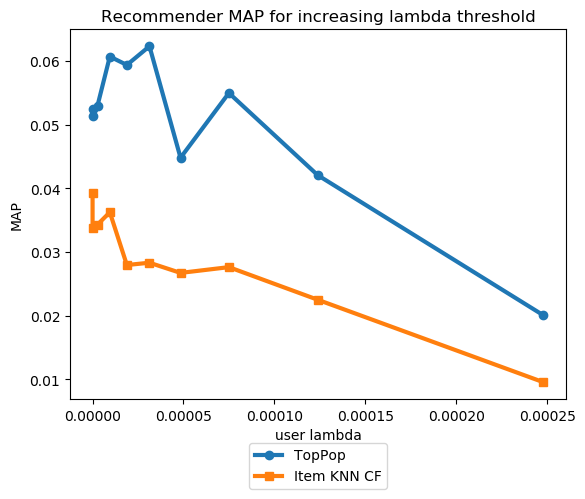
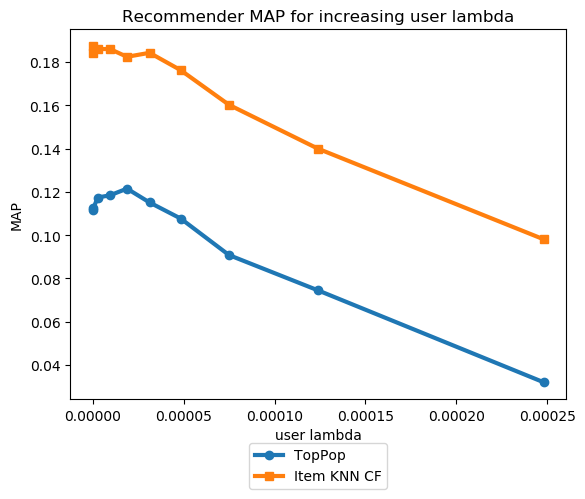
.

diff --git a/run_plot_lambda_threshold.py b/run_plot_lambda_threshold.py
@@ -8,6 +8,8 @@ Created on 06/04/18
 
 from Item_based_lambda_discriminant import ItemBasedLambdaDiscriminantRecommender
 
+from Base.Recommender_utils import check_matrix
+
 from Base.non_personalized import TopPop, Random
 from KNN.item_knn_CF import ItemKNNCFRecommender
 from GraphBased.P3alpha import P3alphaRecommender
@@ -53,7 +55,7 @@ def plot_lambda_profile_length(user_lambda, URM_train, dataset_name, lambda_rang
 
     plt.scatter(profile_length[profile_length_user_id], user_lambda[profile_length_user_id], s=0.5)
 
-    plt.savefig("results/Profile_length_over_lambda_{}_{}_{}".format(dataset_name, lambda_range, mode))
+    plt.savefig("results/plot/Profile_length_over_lambda_{}_{}_{}".format(dataset_name, lambda_range, mode))
 
     plt.close()
 
@@ -119,7 +121,7 @@ def plot_lambda_user_performance(user_lambda, personalized_recommender, URM_trai
 
     plt.scatter(user_map[user_map_user_id], user_lambda[user_map_user_id], s=0.5)
 
-    plt.savefig("results/User_MAP_over_lambda_{}".format(dataset_name))
+    plt.savefig("results/plot/User_MAP_over_lambda_{}".format(dataset_name))
 
     plt.close()
 
@@ -138,7 +140,7 @@ def plot_lambda_user_performance(user_lambda, personalized_recommender, URM_trai
 
     plt.scatter(user_lambda[lambda_user_id],user_map[lambda_user_id], s=0.5)
 
-    plt.savefig("results/Lambda_over_user_map_{}".format(dataset_name))
+    plt.savefig("results/plot/Lambda_over_user_map_{}".format(dataset_name))
 
     plt.close()
 
@@ -600,7 +602,9 @@ def plot_CF_performance_on_lambda_threshold(dataReader_class, mode = "pinv", neg
 
 
 
-
+    URM_train = check_matrix(URM_train, "csr")
+    URM_validation = check_matrix(URM_validation, "csr")
+    URM_test = check_matrix(URM_test, "csr")
 
 
     dataset_name = dataReader_class.DATASET_SUBFOLDER[:-1]
@@ -630,7 +634,6 @@ def plot_CF_performance_on_lambda_threshold(dataReader_class, mode = "pinv", neg
 
 
     plot_lambda_profile_length(user_lambda, URM_train, dataset_name, lambda_range, mode)
-
 
 
 
@@ -671,12 +674,12 @@ def plot_CF_performance_on_lambda_threshold(dataReader_class, mode = "pinv", neg
 
         non_personalized_recommender.fit()
         personalized_recommender.fit()
-
-        try:
-            lambda_bpr_recommender.loadModel("results/lambda_BPR", namePrefix="Lambda_BPR_Cython_{}_{}_{}_best".format(mode, lambda_range, dataset_name))
-        except:
-            lambda_bpr_recommender.fit(**optimal_params)
-            lambda_bpr_recommender.saveModel("results/", namePrefix=namePrefix)
+        #
+        # try:
+        #     lambda_bpr_recommender.loadModel("results/lambda_BPR", namePrefix="Lambda_BPR_Cython_{}_{}_{}_best".format(mode, lambda_range, dataset_name))
+        # except:
+        #     lambda_bpr_recommender.fit(**optimal_params)
+        #     lambda_bpr_recommender.saveModel("results/", namePrefix=namePrefix)
 
 
 
@@ -698,11 +701,13 @@ def plot_CF_performance_on_lambda_threshold(dataReader_class, mode = "pinv", neg
         users_not_involved = np.arange(0, len(user_lambda), dtype=np.int)[np.logical_not(users_involved_mask)]
 
 
-        URM_train_current_user_batch = URM_train[users_involved,:]
-        URM_test_current_user_batch = URM_test[users_involved,:]
 
 
         if train_on is "subset":
+
+            URM_train_current_user_batch = URM_train[users_involved,:]
+            URM_test_current_user_batch = URM_test[users_involved,:]
+
 
             non_personalized_recommender = TopPop(URM_train_current_user_batch)
             personalized_recommender = ItemKNNCFRecommender(URM_train_current_user_batch)
@@ -710,6 +715,11 @@ def plot_CF_performance_on_lambda_threshold(dataReader_class, mode = "pinv", neg
 
             non_personalized_recommender.fit()
             personalized_recommender.fit()
+
+        else:
+
+            # There is no need to eliminate test items for users not involved, the filterCustomUsers takes care of that
+            URM_test_current_user_batch = URM_test.copy()
 
 
 
@@ -741,7 +751,7 @@ def plot_CF_performance_on_lambda_threshold(dataReader_class, mode = "pinv", neg
 
         plt.xlabel('user lambda')
         plt.ylabel("MAP")
-        plt.title("Recommender MAP for increasing lambda threshold")
+        plt.title("Recommender MAP for increasing user lambda")
 
         marker_list = ['o', 's', '^', 'v', 'D']
         marker_iterator_local = itertools.cycle(marker_list)
@@ -783,7 +793,7 @@ if __name__ == '__main__':
 
     dataReader_class_list = [
         Movielens1MReader,
-        #Movielens10MReader,
+        Movielens10MReader,
         #NetflixEnhancedReader,
         #BookCrossingReader,
         #XingChallenge2016Reader
